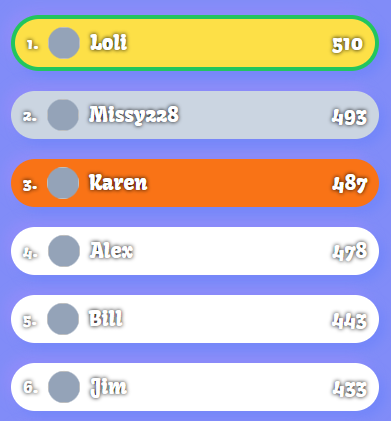
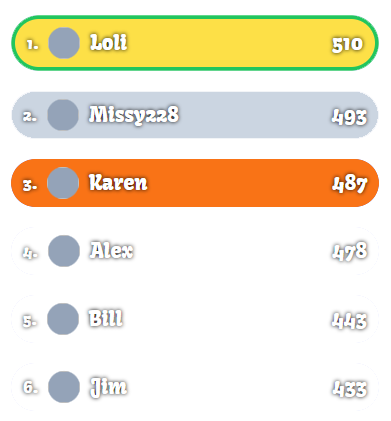
presentation page

diff --git a/react-client/src/components/pages/main/layouts/initLogin.jsx b/react-client/src/components/pages/main/layouts/initLogin.jsx
@@ -22,7 +22,7 @@ function InitLogin(props) {
                                 .toString(36)
                                 .substring(7)}.svg`}
                         />
-                        <span className="text-slate-300 absolute bottom-0 left-3">
+                        <span className="text-slate-300 absolute bottom-[-20px] left-3">
                             <Star />
                             <Star />
                             <Star />
@@ -57,7 +57,7 @@ function InitLogin(props) {
                                 .toString(36)
                                 .substring(7)}.svg`}
                         />
-                        <span className="text-red-400 absolute bottom-0 left-3">
+                        <span className="text-red-400 absolute bottom-[-20px] left-3">
                             <Star styles={"fill-red-400"} />
                             <Star styles={"fill-red-400"} />
                             <Star styles={"fill-red-400"} />
@@ -68,12 +68,12 @@ function InitLogin(props) {
                     </div>
                 </div>
             </section>
-            <section className="container-center flex flex-col mx-[10px] gap-[20px] p-6 rounded-xl">
+            <section className="container-center flex flex-col sm:flex-row mx-[10px] gap-[20px] p-6 rounded-xl">
                 <div className="container-center flex flex-col">
                     <h2>Climb up!</h2>
                     <h4 className="text-[20px]">the leaderboard</h4>
                 </div>
-                <img src={leaderboard}></img>
+                <img className="sm:skew-y-12" src={leaderboard}></img>
             </section>
             <section className="container-center component raised-m flex flex-col gap-[20px] mx-[10px] p-6 rounded-xl">
                 <h2 className="text-center">Choose your favourite theme</h2>

diff --git a/react-client/src/index.css b/react-client/src/index.css
@@ -16,6 +16,41 @@ body {
     background-color: var(--bg-color-main);
 }
 
+.bg-indigo-400 {
+    background-color: rgb(129 140 248);
+}
+
+.bg-black {
+    background-color: rgb(0 0 0);
+}
+
+.bg-slate-300 {
+    background-color: rgb(203 213 225);
+}
+
+.bg-red-400 {
+    background-color: rgb(248 113 113);
+}
+
+.bg-amber-400 {
+    background-color: rgb(251 191 36);
+}
+
+.bg-sky-400 {
+    background-color: rgb(56 189 248);
+}
+.bg-emerald-400 {
+    background-color: rgb(52 211 153);
+}
+
+.bg-purple-400 {
+    background-color: rgb(192 132 252);
+}
+
+.bg-pink-400 {
+    background-color: rgb(244 114 182);
+}
+
 #root {
     height: 100%;
     color: var(--text-color);
